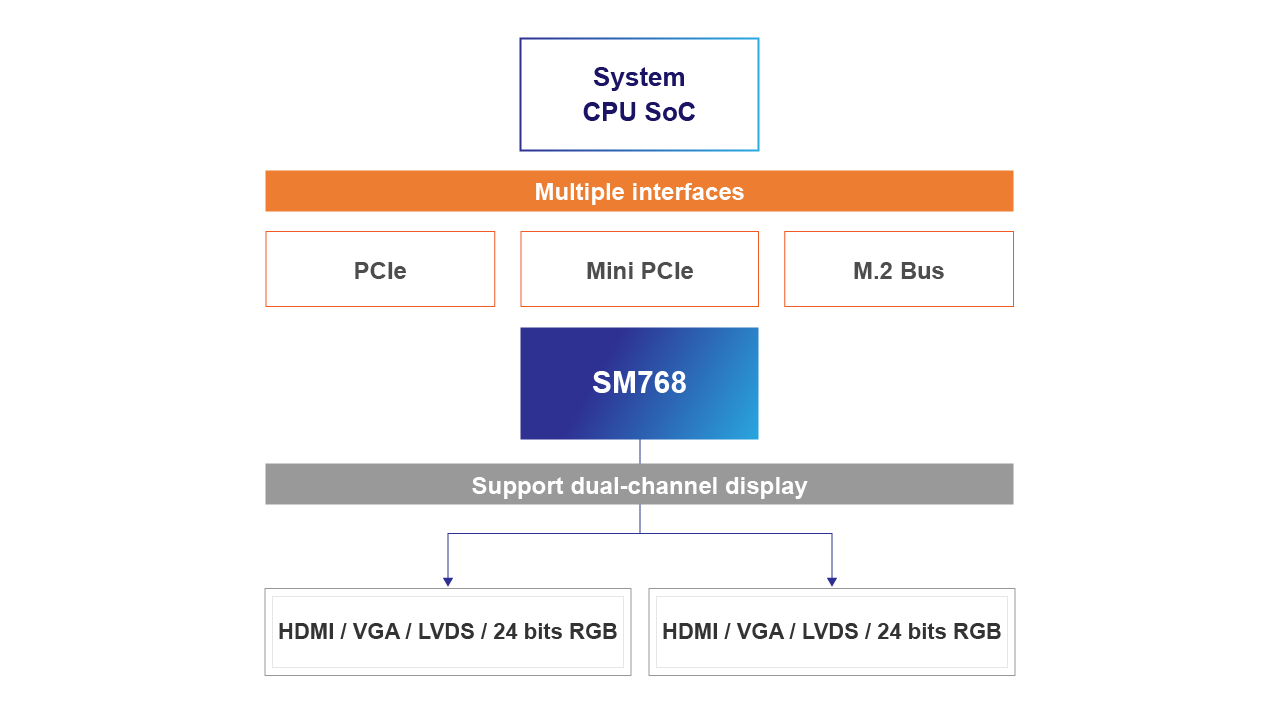
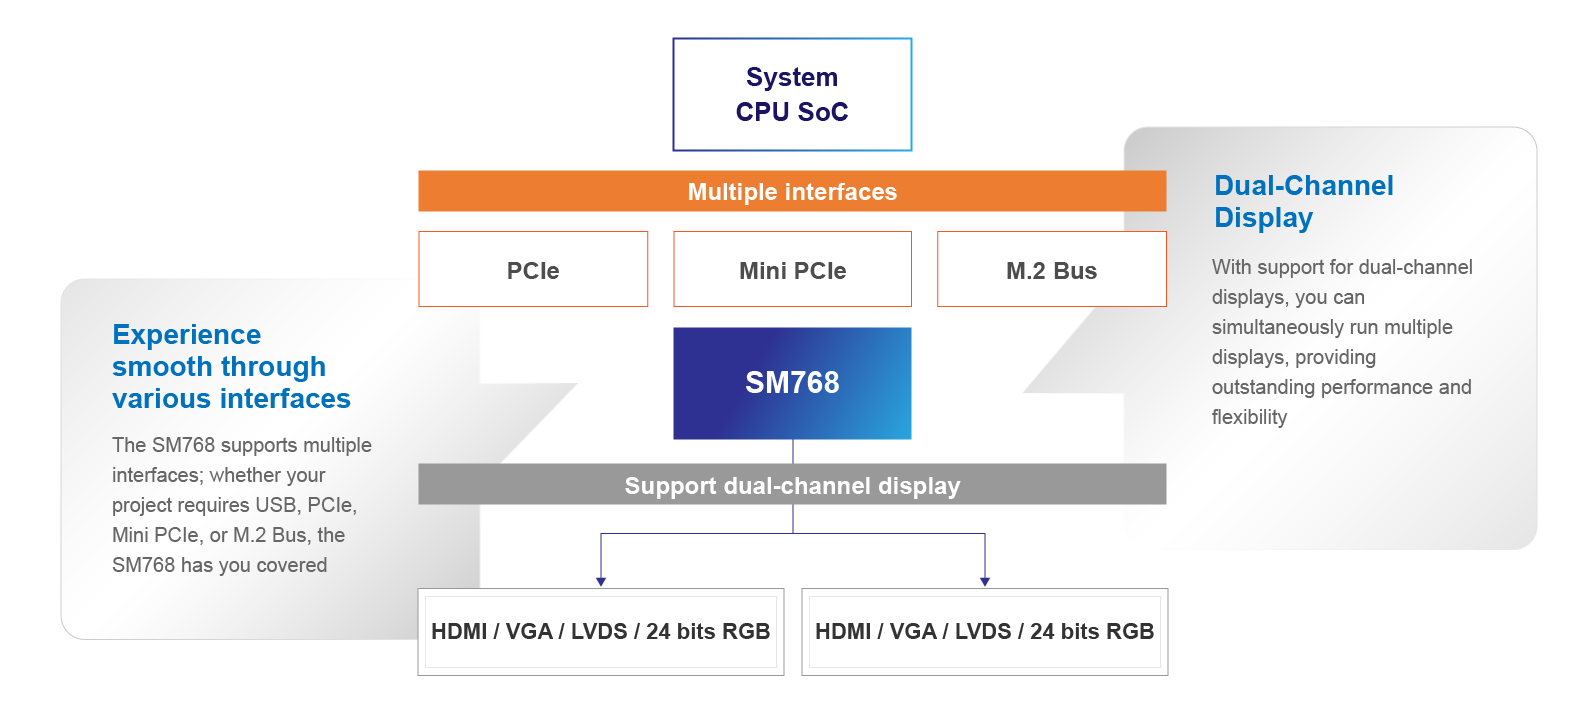
Graphics:修改圖表和icon

diff --git a/partner/ecosystem-partners.html b/partner/ecosystem-partners.html
@@ -3,7 +3,7 @@
 
 <head>
   <meta charset="UTF-8">
-  <title>Applications - Automotive - Silicon Motion</title>
+  <title>Support - Ecosystem Partners - Silicon Motion</title>
   <meta http-equiv="X-UA-Compatible" content="IE=edge">
   <meta name="viewport" content="width=device-width, initial-scale=1">
   <meta name="description"
@@ -13,19 +13,19 @@
   <meta name="author" content="" />
   <meta name="robots" content="all" />
   <link rel="shortcut icon" href="https://www.siliconmotion.com/images/favicon.ico">
-  <link rel="canonical" href="https://www.siliconmotion.com/applications/" />
-  <link rel="alternate" hreflang="en" href="https://www.siliconmotion.com/applications/" />
-  <link rel="alternate" hreflang="zh-TW" href="https://www.siliconmotion.com/cht/applications/" />
-  <link rel="alternate" hreflang="zh-CN" href="https://www.siliconmotion.com/chs/applications/" />
-  <link rel="alternate" hreflang="ja" href="https://www.siliconmotion.com/jp/applications/" />
-  <link rel="alternate" hreflang="ko" href="https://www.siliconmotion.com/kr/applications/" />
+  <link rel="canonical" href="https://www.siliconmotion.com/support/" />
+  <link rel="alternate" hreflang="en" href="https://www.siliconmotion.com/support/" />
+  <link rel="alternate" hreflang="zh-TW" href="https://www.siliconmotion.com/cht/support/" />
+  <link rel="alternate" hreflang="zh-CN" href="https://www.siliconmotion.com/chs/support/" />
+  <link rel="alternate" hreflang="ja" href="https://www.siliconmotion.com/jp/support/" />
+  <link rel="alternate" hreflang="ko" href="https://www.siliconmotion.com/kr/support/" />
   <meta name="theme-color" content="#000">
   <meta name="msapplication-navbutton-color" content="#000">
   <meta name="apple-mobile-web-app-status-bar-style" content="#000">
   <meta property="og:description"
     content="Silicon Motion is the global leader in supplying NAND flash controllers for solid state storage devices and the merchant leader in supplying SSD controllers. We also supply customized high-performance hyperscale data center and industrial SSD solutions." />
   <meta property="og:site_name" content="Silicon Motion" />
-  <meta property="og:title" content="Applications - Silicon Motion" />
+  <meta property="og:title" content="Support - Silicon Motion" />
   <meta property="og:image" content="https://www.siliconmotion.com/images/facebookShare.jpg" />
   <link rel="apple-touch-icon-precomposed" sizes="144x144"
     href="https://www.siliconmotion.com/images/touch-icon-144.png">
@@ -454,13 +454,13 @@
               </div>
               <div class="list">
                 <a class="changeLang active" href="javascript:;" data-lang="en" title="EN">English</a>
-                <a class="changeLang" href="https://www.siliconmotion.com/application/cht/applications-automotive.html"
+                <a class="changeLang" href="https://www.siliconmotion.com/partner/cht/ecosystem-partners.html"
                   data-lang="cht" title="CHT">繁中</a>
-                <a class="changeLang" href="https://www.siliconmotion.com/application/chs/applications-automotive.html"
+                <a class="changeLang" href="https://www.siliconmotion.com/partner/chs/ecosystem-partners.html"
                   data-lang="chs" title="CHS">简中</a>
-                <a class="changeLang" href="https://www.siliconmotion.com/application/jp/applications-automotive.html"
+                <a class="changeLang" href="https://www.siliconmotion.com/partner/jp/ecosystem-partners.html"
                   data-lang="jp" title="JPN">日本語</a>
-                <a class="changeLang" href="https://www.siliconmotion.com/application/kr/applications-automotive.html"
+                <a class="changeLang" href="https://www.siliconmotion.com/partner/kr/ecosystem-partners.html"
                   data-lang="kr" title="KOR">한국어</a>
               </div>
             </div>

diff --git a/Embedded-GPU.html b/Embedded-GPU.html
@@ -13,7 +13,7 @@
   <meta name="author" content="Silicon Motion" />
   <meta name="robots" content="all" />
   <link rel="shortcut icon" href="https://www.siliconmotion.com/images/favicon.ico">
-  <link rel="prefetch" href="https://www.siliconmotion.com/images/banner-graphics.jpg" />
+  <link rel="prefetch" href="https://www.siliconmotion.com/images/banner_embedded_gpu.jpg" />
   <link rel="canonical" href="https://www.siliconmotion.com" />
   <link rel="alternate" hreflang="en" href="https://www.siliconmotion.com" />
   <link rel="alternate" hreflang="zh-TW" href="https://www.siliconmotion.com/cht" />
@@ -607,7 +607,7 @@
                     </li>
                     <li>
                       <a href="javascript:;">
-                        <img src="images/applications/icon_Digital-Signage.svg" alt="">
+                        <img src="images/applications/icon_digital-signal.svg" alt="">
                         <span>Digital Signage</span>
                       </a>
                     </li>
@@ -647,17 +647,6 @@
             <h3>Technologies</h3>
             <h4>Powering Your Vision with Multiple Interfaces and Dual-Channel Display</h4>
             <p>The SM768 supports multiple interfaces and dual-channel displays, making it an excellent choice for various applications, from industrial automation to digital signage and more.</p>
-
-            <div class="row pd_top_50" data-aos="fade-up">
-              <div class="col-md-6 col-sm-12">
-                <h6>Experience smooth through various interfaces.</h6>
-                <p>The SM768 supports multiple interfaces; whether your project requires USB, PCIe, Mini PCIe, or M.2 Bus, the SM768 has you covered.</p>
-              </div>
-              <div class="col-md-6 col-sm-12">
-                <h6>Dual-Channel Display</h6>
-                <p>With support for dual-channel displays, you can simultaneously run multiple displays, providing outstanding performance and flexibility</p>
-              </div>
-            </div>
 
             <div class="row pd_top_50" data-aos="fade-up">
               <div class="col-md-12">

diff --git a/Graphics-Display-SoCs.html b/Graphics-Display-SoCs.html
@@ -13,7 +13,7 @@
   <meta name="author" content="Silicon Motion" />
   <meta name="robots" content="all" />
   <link rel="shortcut icon" href="https://www.siliconmotion.com/images/favicon.ico">
-  <link rel="prefetch" href="https://www.siliconmotion.com/images/banner-graphics.jpg" />
+  <link rel="prefetch" href="https://www.siliconmotion.com/images/banner_usb_display.jpg" />
   <link rel="canonical" href="https://www.siliconmotion.com" />
   <link rel="alternate" hreflang="en" href="https://www.siliconmotion.com" />
   <link rel="alternate" hreflang="zh-TW" href="https://www.siliconmotion.com/cht" />

diff --git a/application/applications-automotive.html b/application/applications-automotive.html
@@ -13,6 +13,7 @@
   <meta name="author" content="" />
   <meta name="robots" content="all" />
   <link rel="shortcut icon" href="https://www.siliconmotion.com/images/favicon.ico">
+  <link rel="prefetch" href="https://www.siliconmotion.com/images/banner_automotive.jpg" />
   <link rel="canonical" href="https://www.siliconmotion.com/applications/" />
   <link rel="alternate" hreflang="en" href="https://www.siliconmotion.com/applications/" />
   <link rel="alternate" hreflang="zh-TW" href="https://www.siliconmotion.com/cht/applications/" />
